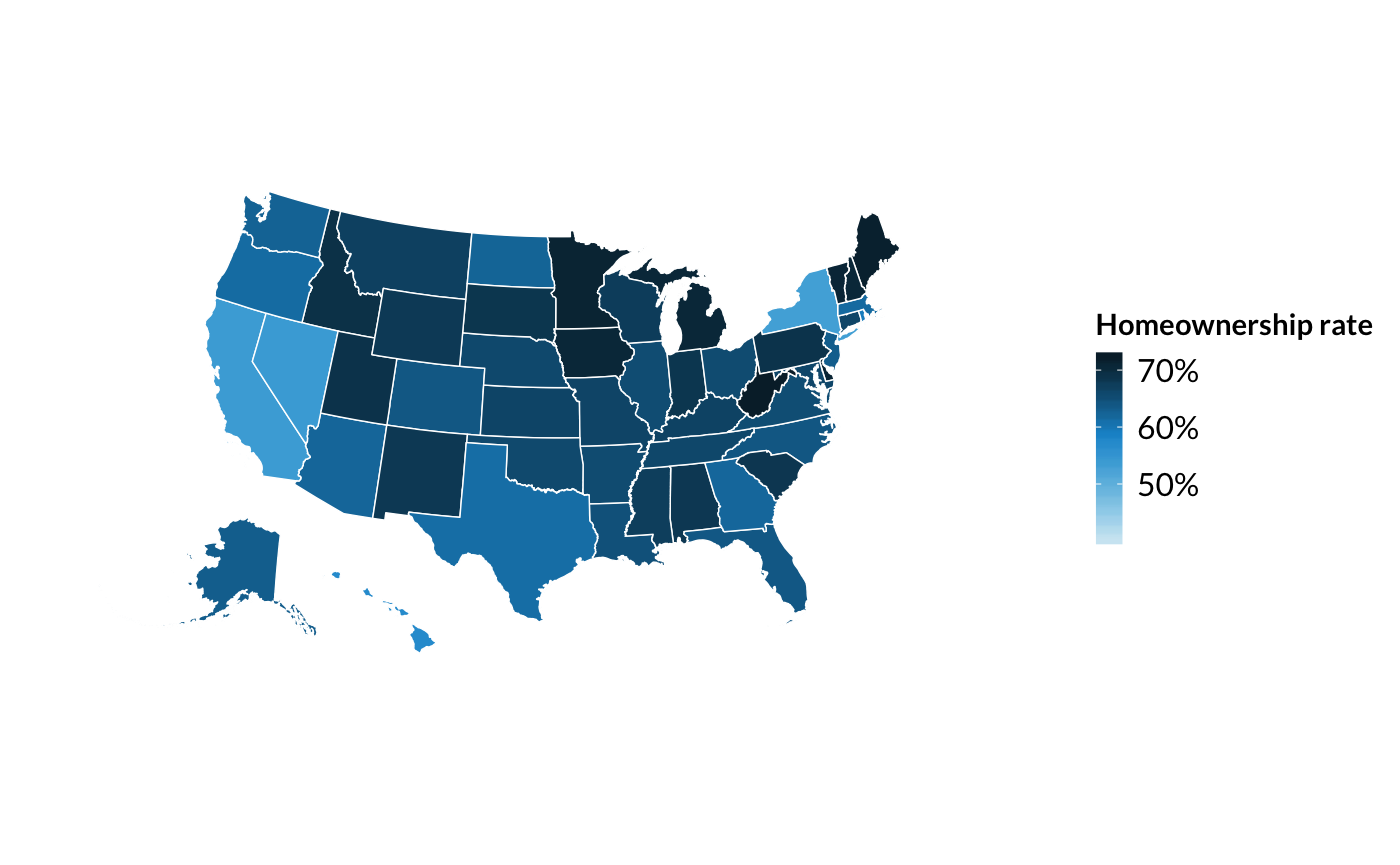
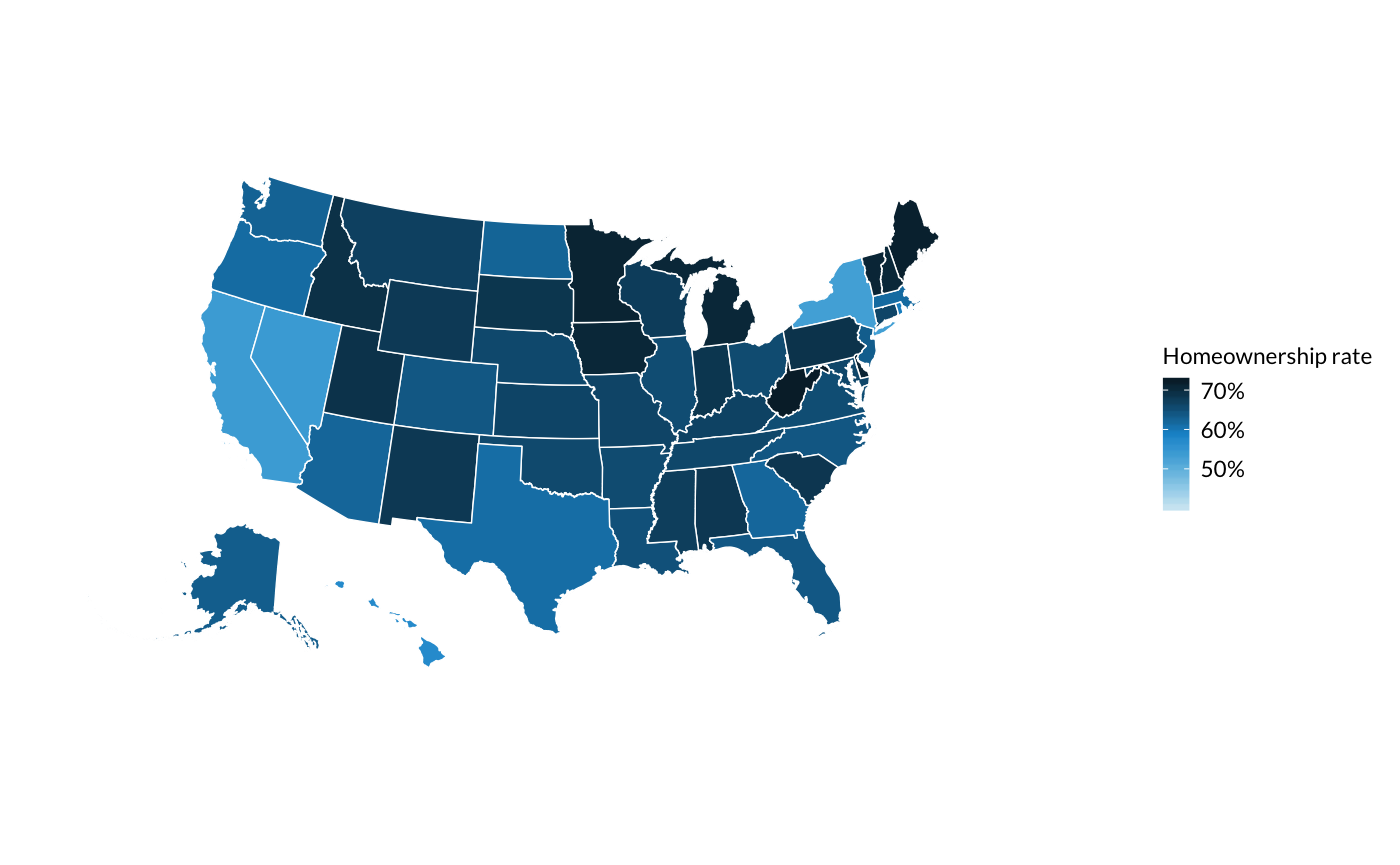
Clean up hex stickers and update pkgdown.

diff --git a/docs/index.html b/docs/index.html
@@ -113,7 +113,10 @@ devtools<span class="op">::</span><span class="kw"><a href="http://www.rdocument
 <div id="usage" class="section level2">
 <h2 class="hasAnchor">
 <a href="#usage" class="anchor"></a>Usage</h2>
-<p><code>urbnmapr</code> contains two <code>tibble</code> dataframes:</p>
+<div id="quick-maps" class="section level3">
+<h3 class="hasAnchor">
+<a href="#quick-maps" class="anchor"></a>Quick maps</h3>
+<p><code>urbnmapr</code> contains two <code>tibble</code> dataframes for creating maps:</p>
 <ul>
 <li><code>states</code></li>
 <li><code>counties</code></li>
@@ -124,14 +127,51 @@ devtools<span class="op">::</span><span class="kw"><a href="http://www.rdocument
 
 states <span class="op">%&gt;%</span>
 <span class="st">  </span><span class="kw">ggplot</span>(<span class="kw">aes</span>(long, lat, <span class="dt">group =</span> group)) <span class="op">+</span>
-<span class="st">    </span><span class="kw">geom_polygon</span>(<span class="dt">fill =</span> <span class="st">"grey"</span>, <span class="dt">color =</span> <span class="st">"#ffffff"</span>, <span class="dt">size =</span> <span class="fl">0.25</span>) <span class="op">+</span>
-<span class="st">    </span><span class="kw">coord_map</span>(<span class="dt">projection =</span> <span class="st">"albers"</span>, <span class="dt">lat0 =</span> <span class="dv">39</span>, <span class="dt">lat1 =</span> <span class="dv">45</span>)</code></pre></div>
+<span class="st">  </span><span class="kw">geom_polygon</span>(<span class="dt">fill =</span> <span class="st">"grey"</span>, <span class="dt">color =</span> <span class="st">"#ffffff"</span>, <span class="dt">size =</span> <span class="fl">0.25</span>) <span class="op">+</span>
+<span class="st">  </span><span class="kw">coord_map</span>(<span class="dt">projection =</span> <span class="st">"albers"</span>, <span class="dt">lat0 =</span> <span class="dv">39</span>, <span class="dt">lat1 =</span> <span class="dv">45</span>)</code></pre></div>
 <p><img src="index_files/figure-html/blank-state-1.png" width="700"></p>
 <div class="sourceCode"><pre class="sourceCode r"><code class="sourceCode r">counties <span class="op">%&gt;%</span>
 <span class="st">  </span><span class="kw">ggplot</span>(<span class="kw">aes</span>(long, lat, <span class="dt">group =</span> group)) <span class="op">+</span>
-<span class="st">    </span><span class="kw">geom_polygon</span>(<span class="dt">fill =</span> <span class="st">"grey"</span>, <span class="dt">color =</span> <span class="st">"#ffffff"</span>, <span class="dt">size =</span> <span class="fl">0.05</span>) <span class="op">+</span>
-<span class="st">    </span><span class="kw">coord_map</span>(<span class="dt">projection =</span> <span class="st">"albers"</span>, <span class="dt">lat0 =</span> <span class="dv">39</span>, <span class="dt">lat1 =</span> <span class="dv">45</span>)</code></pre></div>
+<span class="st">  </span><span class="kw">geom_polygon</span>(<span class="dt">fill =</span> <span class="st">"grey"</span>, <span class="dt">color =</span> <span class="st">"#ffffff"</span>, <span class="dt">size =</span> <span class="fl">0.05</span>) <span class="op">+</span>
+<span class="st">  </span><span class="kw">coord_map</span>(<span class="dt">projection =</span> <span class="st">"albers"</span>, <span class="dt">lat0 =</span> <span class="dv">39</span>, <span class="dt">lat1 =</span> <span class="dv">45</span>)</code></pre></div>
 <p><img src="index_files/figure-html/blank-county-1.png" width="700"></p>
+</div>
+<div id="more-maps" class="section level3">
+<h3 class="hasAnchor">
+<a href="#more-maps" class="anchor"></a>More maps</h3>
+<p>Additional maps can be accessed with <code><a href="reference/get_urbn_map.html">get_urbn_map()</a></code>. Use the function to create a tibble in your global environment and then map using the same syntax as above.</p>
+<div class="sourceCode"><pre class="sourceCode r"><code class="sourceCode r">territories_counties &lt;-<span class="st"> </span><span class="kw"><a href="reference/get_urbn_map.html">get_urbn_map</a></span>(<span class="dt">map =</span> <span class="st">"territories_counties"</span>)
+
+territories_counties <span class="op">%&gt;%</span>
+<span class="st">  </span><span class="kw">ggplot</span>(<span class="kw">aes</span>(long, lat, <span class="dt">group =</span> group)) <span class="op">+</span>
+<span class="st">  </span><span class="kw">geom_polygon</span>(<span class="dt">fill =</span> <span class="st">"grey"</span>, <span class="dt">color =</span> <span class="st">"#ffffff"</span>, <span class="dt">size =</span> <span class="fl">0.05</span>) <span class="op">+</span>
+<span class="st">  </span><span class="kw">coord_map</span>(<span class="dt">projection =</span> <span class="st">"albers"</span>, <span class="dt">lat0 =</span> <span class="dv">39</span>, <span class="dt">lat1 =</span> <span class="dv">45</span>)</code></pre></div>
+<p><img src="index_files/figure-html/get_urbn_map-1.png" width="700"></p>
+</div>
+<div id="labels" class="section level3">
+<h3 class="hasAnchor">
+<a href="#labels" class="anchor"></a>Labels</h3>
+<p>Labels for all maps can be accessed with <code><a href="reference/get_urbn_labels.html">get_urbn_labels()</a></code>. Use the function to call the appropriate labels and then label the map with <code>geom_text()</code>. Labels can be called inside of <code>geom_text()</code>:</p>
+<div class="sourceCode"><pre class="sourceCode r"><code class="sourceCode r">states <span class="op">%&gt;%</span>
+<span class="st">  </span><span class="kw">ggplot</span>() <span class="op">+</span>
+<span class="st">  </span><span class="kw">geom_polygon</span>(<span class="kw">aes</span>(long, lat, <span class="dt">group =</span> group), 
+               <span class="dt">fill =</span> <span class="st">"grey"</span>, <span class="dt">color =</span> <span class="st">"#ffffff"</span>, <span class="dt">size =</span> <span class="fl">0.25</span>) <span class="op">+</span>
+<span class="st">  </span><span class="kw">coord_map</span>(<span class="dt">projection =</span> <span class="st">"albers"</span>, <span class="dt">lat0 =</span> <span class="dv">39</span>, <span class="dt">lat1 =</span> <span class="dv">45</span>) <span class="op">+</span>
+<span class="st">  </span><span class="kw">geom_text</span>(<span class="dt">data =</span> <span class="kw"><a href="reference/get_urbn_labels.html">get_urbn_labels</a></span>(<span class="dt">map =</span> <span class="st">"states"</span>), <span class="kw">aes</span>(<span class="dt">x =</span> long, lat, <span class="dt">label =</span> state_abbv), 
+            <span class="dt">size =</span> <span class="dv">3</span>)</code></pre></div>
+<p><img src="index_files/figure-html/quick-labels-1.png" width="700"></p>
+<p>Or before <code>geom_text()</code> is called:</p>
+<div class="sourceCode"><pre class="sourceCode r"><code class="sourceCode r">territories &lt;-<span class="st"> </span><span class="kw"><a href="reference/get_urbn_map.html">get_urbn_map</a></span>(<span class="dt">map =</span> <span class="st">"territories"</span>)
+labels &lt;-<span class="st"> </span><span class="kw"><a href="reference/get_urbn_labels.html">get_urbn_labels</a></span>(<span class="dt">map =</span> <span class="st">"territories"</span>)
+
+territories <span class="op">%&gt;%</span>
+<span class="st">  </span><span class="kw">ggplot</span>() <span class="op">+</span>
+<span class="st">  </span><span class="kw">geom_polygon</span>(<span class="kw">aes</span>(long, lat, <span class="dt">group =</span> group),
+               <span class="dt">fill =</span> <span class="st">"grey"</span>, <span class="dt">color =</span> <span class="st">"#ffffff"</span>, <span class="dt">size =</span> <span class="fl">0.05</span>) <span class="op">+</span>
+<span class="st">  </span><span class="kw">coord_map</span>(<span class="dt">projection =</span> <span class="st">"albers"</span>, <span class="dt">lat0 =</span> <span class="dv">39</span>, <span class="dt">lat1 =</span> <span class="dv">45</span>) <span class="op">+</span>
+<span class="st">  </span><span class="kw">geom_text</span>(<span class="dt">data =</span> labels, <span class="kw">aes</span>(<span class="dt">x =</span> long, lat, <span class="dt">label =</span> state_abbv), <span class="dt">size =</span> <span class="dv">3</span>) </code></pre></div>
+<p><img src="index_files/figure-html/get_urbn_labels-1.png" width="700"></p>
+</div>
 </div>
 <div id="merging-data" class="section level2">
 <h2 class="hasAnchor">
@@ -156,20 +196,15 @@ household_data <span class="op">%&gt;%</span>
 <h2 class="hasAnchor">
 <a href="#styles" class="anchor"></a>Styles</h2>
 <p><code>library(urbnmapr)</code> works well with the <a href="https://github.com/UrbanInstitute/urban_R_theme">Urban Institute <code>ggplot2</code> theme.</a></p>
-<div class="sourceCode"><pre class="sourceCode r"><code class="sourceCode r"><span class="kw">source</span>(<span class="st">"https://raw.githubusercontent.com/UrbanInstitute/urban_R_theme/urban_R_theme_revamp/urban_theme.R"</span>)</code></pre></div>
-<pre><code>## Warning: New theme missing the following elements: plot.tag,
-## plot.tag.position</code></pre>
+<div class="sourceCode"><pre class="sourceCode r"><code class="sourceCode r"><span class="kw">library</span>(urbnthemes)
+
+<span class="kw"><a href="http://www.rdocumentation.org/packages/urbnthemes/topics/set_urbn_defaults">set_urbn_defaults</a></span>(<span class="dt">style =</span> <span class="st">"map"</span>)</code></pre></div>
 <div class="sourceCode"><pre class="sourceCode r"><code class="sourceCode r">statedata <span class="op">%&gt;%</span><span class="st"> </span>
 <span class="st">  </span><span class="kw">left_join</span>(states, <span class="dt">by =</span> <span class="st">"state_name"</span>) <span class="op">%&gt;%</span><span class="st"> </span>
 <span class="st">  </span><span class="kw">ggplot</span>(<span class="dt">mapping =</span> <span class="kw">aes</span>(long, lat, <span class="dt">group =</span> group, <span class="dt">fill =</span> horate)) <span class="op">+</span>
 <span class="st">  </span><span class="kw">geom_polygon</span>(<span class="dt">color =</span> <span class="st">"#ffffff"</span>, <span class="dt">size =</span> .<span class="dv">25</span>) <span class="op">+</span>
 <span class="st">  </span><span class="kw">coord_map</span>(<span class="dt">projection =</span> <span class="st">"albers"</span>, <span class="dt">lat0 =</span> <span class="dv">39</span>, <span class="dt">lat1 =</span> <span class="dv">45</span>) <span class="op">+</span>
-<span class="st">  </span><span class="kw">scale_fill_gradientn</span>(<span class="dt">labels =</span> scales<span class="op">::</span>percent) <span class="op">+</span>
-<span class="st">  </span>urban_map <span class="op">+</span>
-<span class="st">   </span><span class="kw">theme</span>(<span class="dt">legend.position =</span> <span class="st">"right"</span>,
-          <span class="dt">legend.direction =</span> <span class="st">"vertical"</span>,
-          <span class="dt">legend.title =</span> <span class="kw">element_text</span>(<span class="dt">face =</span> <span class="st">"bold"</span>, <span class="dt">size =</span> <span class="dv">11</span>),
-          <span class="dt">legend.key.height =</span> <span class="kw">unit</span>(.<span class="dv">2</span>, <span class="st">"in"</span>)) <span class="op">+</span>
+<span class="st">  </span><span class="kw"><a href="http://www.rdocumentation.org/packages/urbnthemes/topics/scale_fill_gradientn">scale_fill_gradientn</a></span>(<span class="dt">labels =</span> scales<span class="op">::</span>percent) <span class="op">+</span>
 <span class="st">  </span><span class="kw">labs</span>(<span class="dt">fill =</span> <span class="st">"Homeownership rate"</span>)</code></pre></div>
 <p><img src="index_files/figure-html/theme-state-1.png" width="700"></p>
 <div class="sourceCode"><pre class="sourceCode r"><code class="sourceCode r">household_data <span class="op">%&gt;%</span>
@@ -177,12 +212,7 @@ household_data <span class="op">%&gt;%</span>
 <span class="st">  </span><span class="kw">ggplot</span>(<span class="kw">aes</span>(long, lat, <span class="dt">group =</span> group, <span class="dt">fill =</span> medhhincome)) <span class="op">+</span>
 <span class="st">    </span><span class="kw">geom_polygon</span>(<span class="dt">color =</span> <span class="st">"#ffffff"</span>, <span class="dt">size =</span> <span class="fl">0.05</span>) <span class="op">+</span>
 <span class="st">    </span><span class="kw">coord_map</span>(<span class="dt">projection =</span> <span class="st">"albers"</span>, <span class="dt">lat0 =</span> <span class="dv">39</span>, <span class="dt">lat1 =</span> <span class="dv">45</span>) <span class="op">+</span>
-<span class="st">    </span><span class="kw">scale_fill_gradientn</span>(<span class="dt">labels =</span> scales<span class="op">::</span>dollar) <span class="op">+</span>
-<span class="st">    </span>urban_map <span class="op">+</span>
-<span class="st">    </span><span class="kw">theme</span>(<span class="dt">legend.position =</span> <span class="st">"right"</span>,
-          <span class="dt">legend.direction =</span> <span class="st">"vertical"</span>,
-          <span class="dt">legend.title =</span> <span class="kw">element_text</span>(<span class="dt">face =</span> <span class="st">"bold"</span>, <span class="dt">size =</span> <span class="dv">11</span>),
-          <span class="dt">legend.key.height =</span> <span class="kw">unit</span>(.<span class="dv">25</span>, <span class="st">"in"</span>)) <span class="op">+</span>
+<span class="st">    </span><span class="kw"><a href="http://www.rdocumentation.org/packages/urbnthemes/topics/scale_fill_gradientn">scale_fill_gradientn</a></span>(<span class="dt">labels =</span> scales<span class="op">::</span>dollar) <span class="op">+</span>
 <span class="st">  </span><span class="kw">labs</span>(<span class="dt">fill =</span> <span class="st">"Median household income"</span>)</code></pre></div>
 <p><img src="index_files/figure-html/theme-counties-1.png" width="700"></p>
 </div>

diff --git a/README.md b/README.md
@@ -1,7 +1,7 @@
 
 <!-- README.md is generated from README.Rmd. Please edit that file -->
-urbnmapr
-========
+urbnmapr <img src="man/figures/hexsticker.png" align="right" style="width:172.6667px;height:200px;"/>
+=====================================================================================================
 
 [![Travis-CI Build Status](https://travis-ci.org/UrbanInstitute/urbnmapr.svg?branch=master)](https://travis-ci.org/UrbanInstitute/urbnmapr)
 
@@ -143,9 +143,6 @@ library(urbnthemes)
 
 set_urbn_defaults(style = "map")
 ```
-
-    ## Warning: New theme missing the following elements: plot.tag,
-    ## plot.tag.position
 
 ``` r
 statedata %>% 
